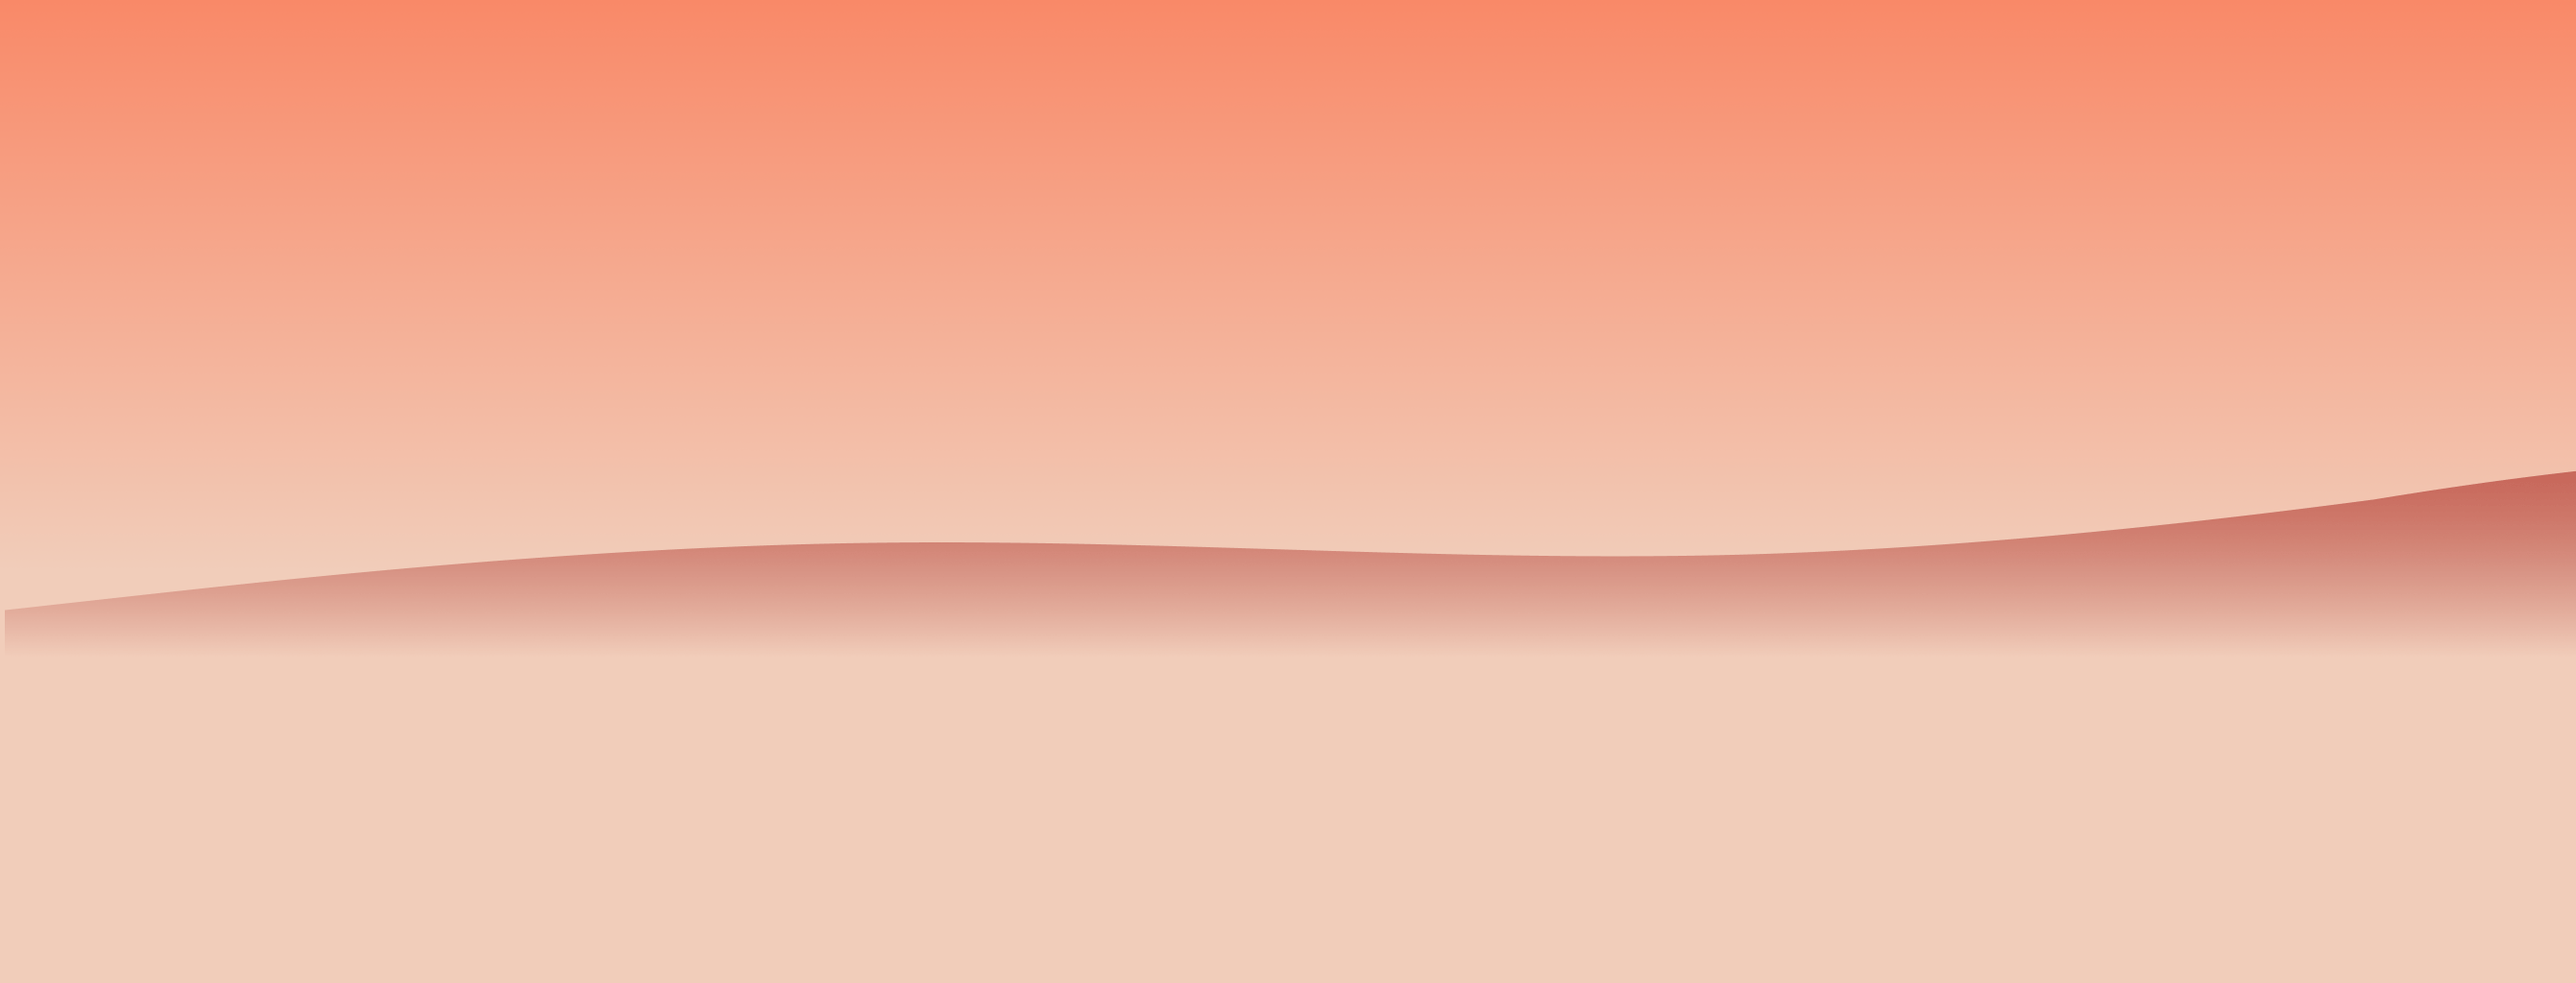
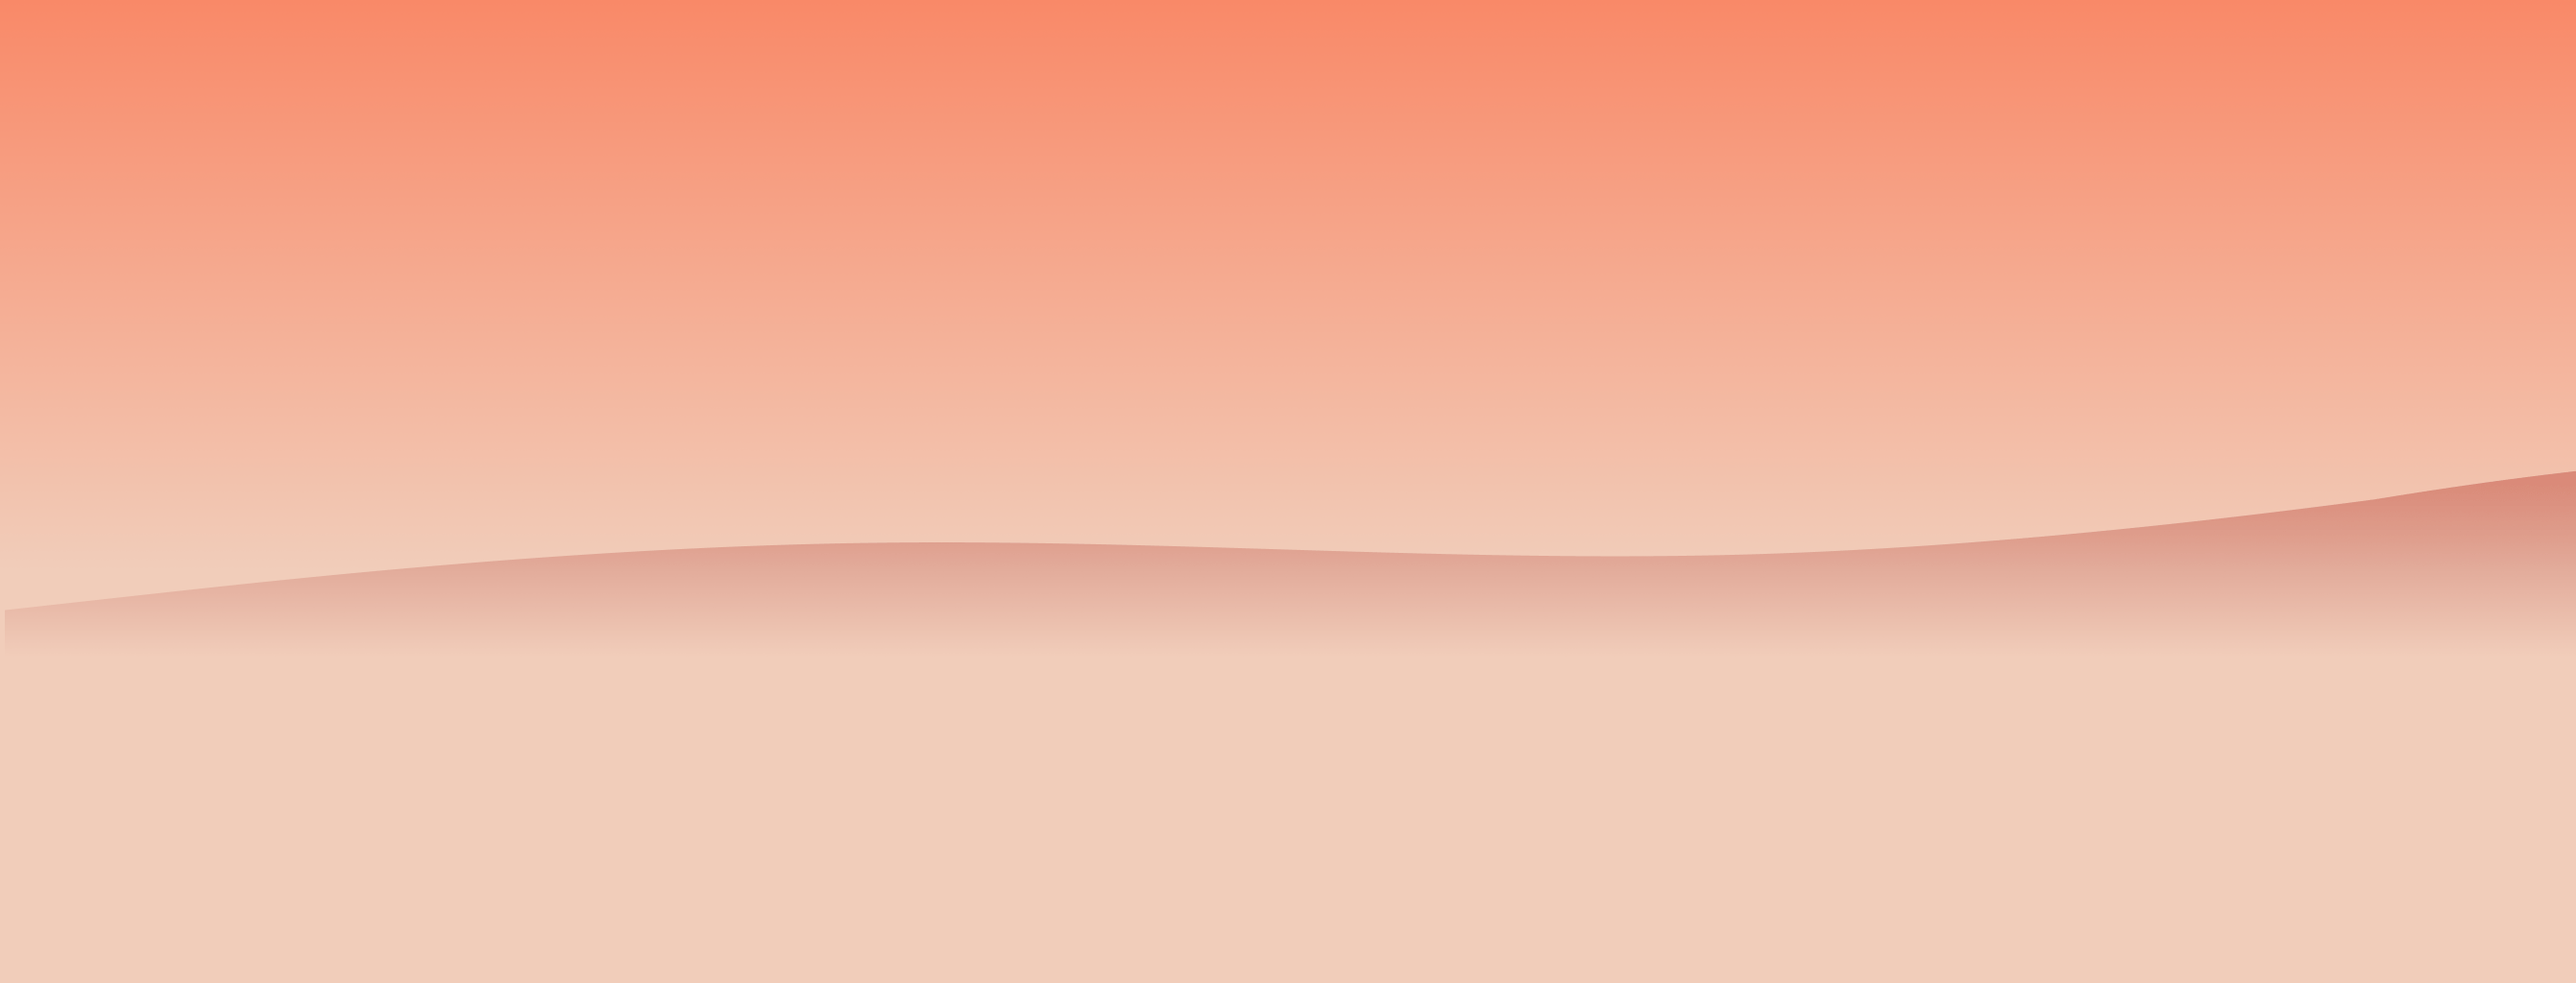
chapter 1 parallax + bg img change

Changed region(s): [[0.1547, 0.4688, 1.0, 0.5938]]

diff --git a/components/Chapter1.vue b/components/Chapter1.vue
@@ -7,7 +7,7 @@
   >
     <div class="b--ss-a">
       <div class="b--ss-a__ft-items">
-        <img src="@/assets/img/chapter-1/front-parallax.png" alt="front" ref="parallax-ft" @load="handleLoad"
+        <img :style="{ left: '3%' }" src="@/assets/img/chapter-1/front-parallax.png" alt="front" ref="parallax-ft" @load="handleLoad"
           @error="handleLoad" />
       </div>
       <div class="b--ss-a__content">
@@ -32,7 +32,7 @@
         </div>
         <!-- Intro Story -->
 
-        <div class="b--chapter1-a__content b--chapter1-a__content--second" ref="boxContent">
+        <div class="b--chapter1-a__content b--chapter1-a__content--second" ref="boxContent" :style="{ left: '32%' }">
             <div class="b--card-a" ref="CardA">
               <div class="b--card-a__artwork"></div>
               <div class="b--card-a__wrapper b--content-a">
@@ -152,7 +152,6 @@ export default {
       var motion = [
         { obj: this.$refs['parallax-bg'], intensity: 2 },
         { obj: this.$refs['parallax-ft'], intensity: 21 },
-        { obj: this.$refs['bubble'], intensity: 21 },
         { obj: this.$refs['boxContent'], intensity: 21 },
         { obj: this.$refs['intro'], intensity: 21 },
       ]
